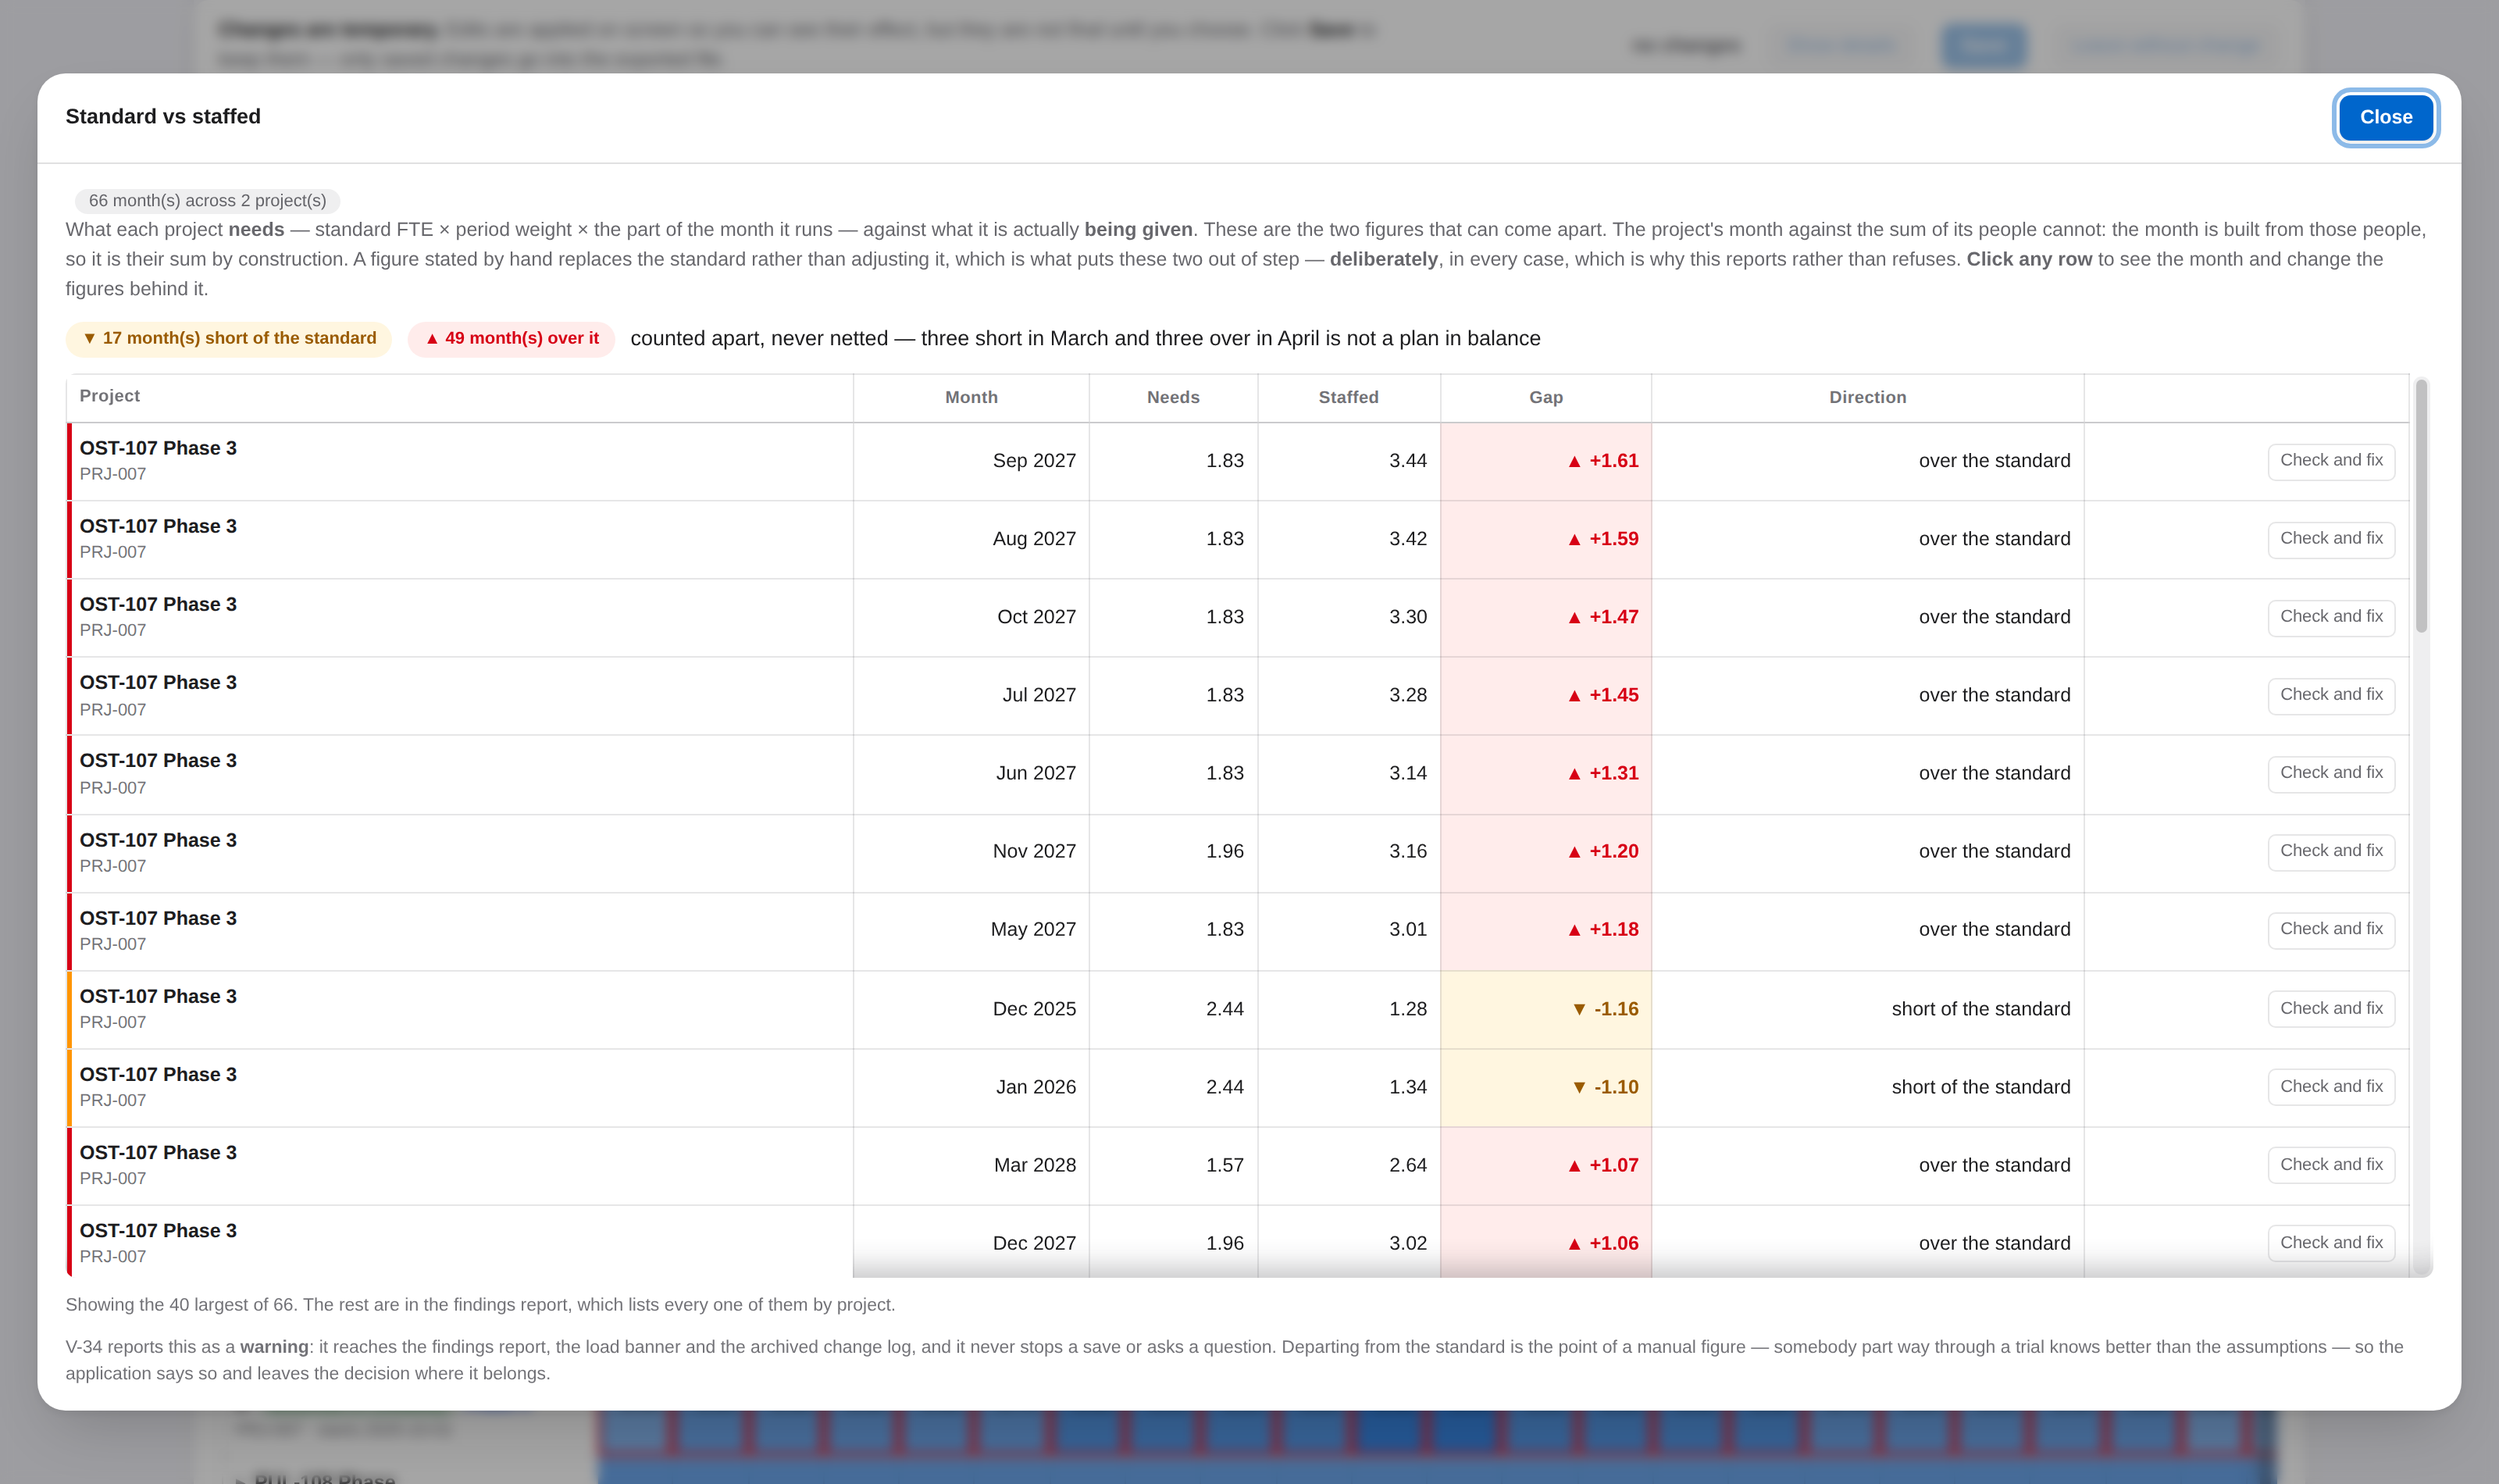
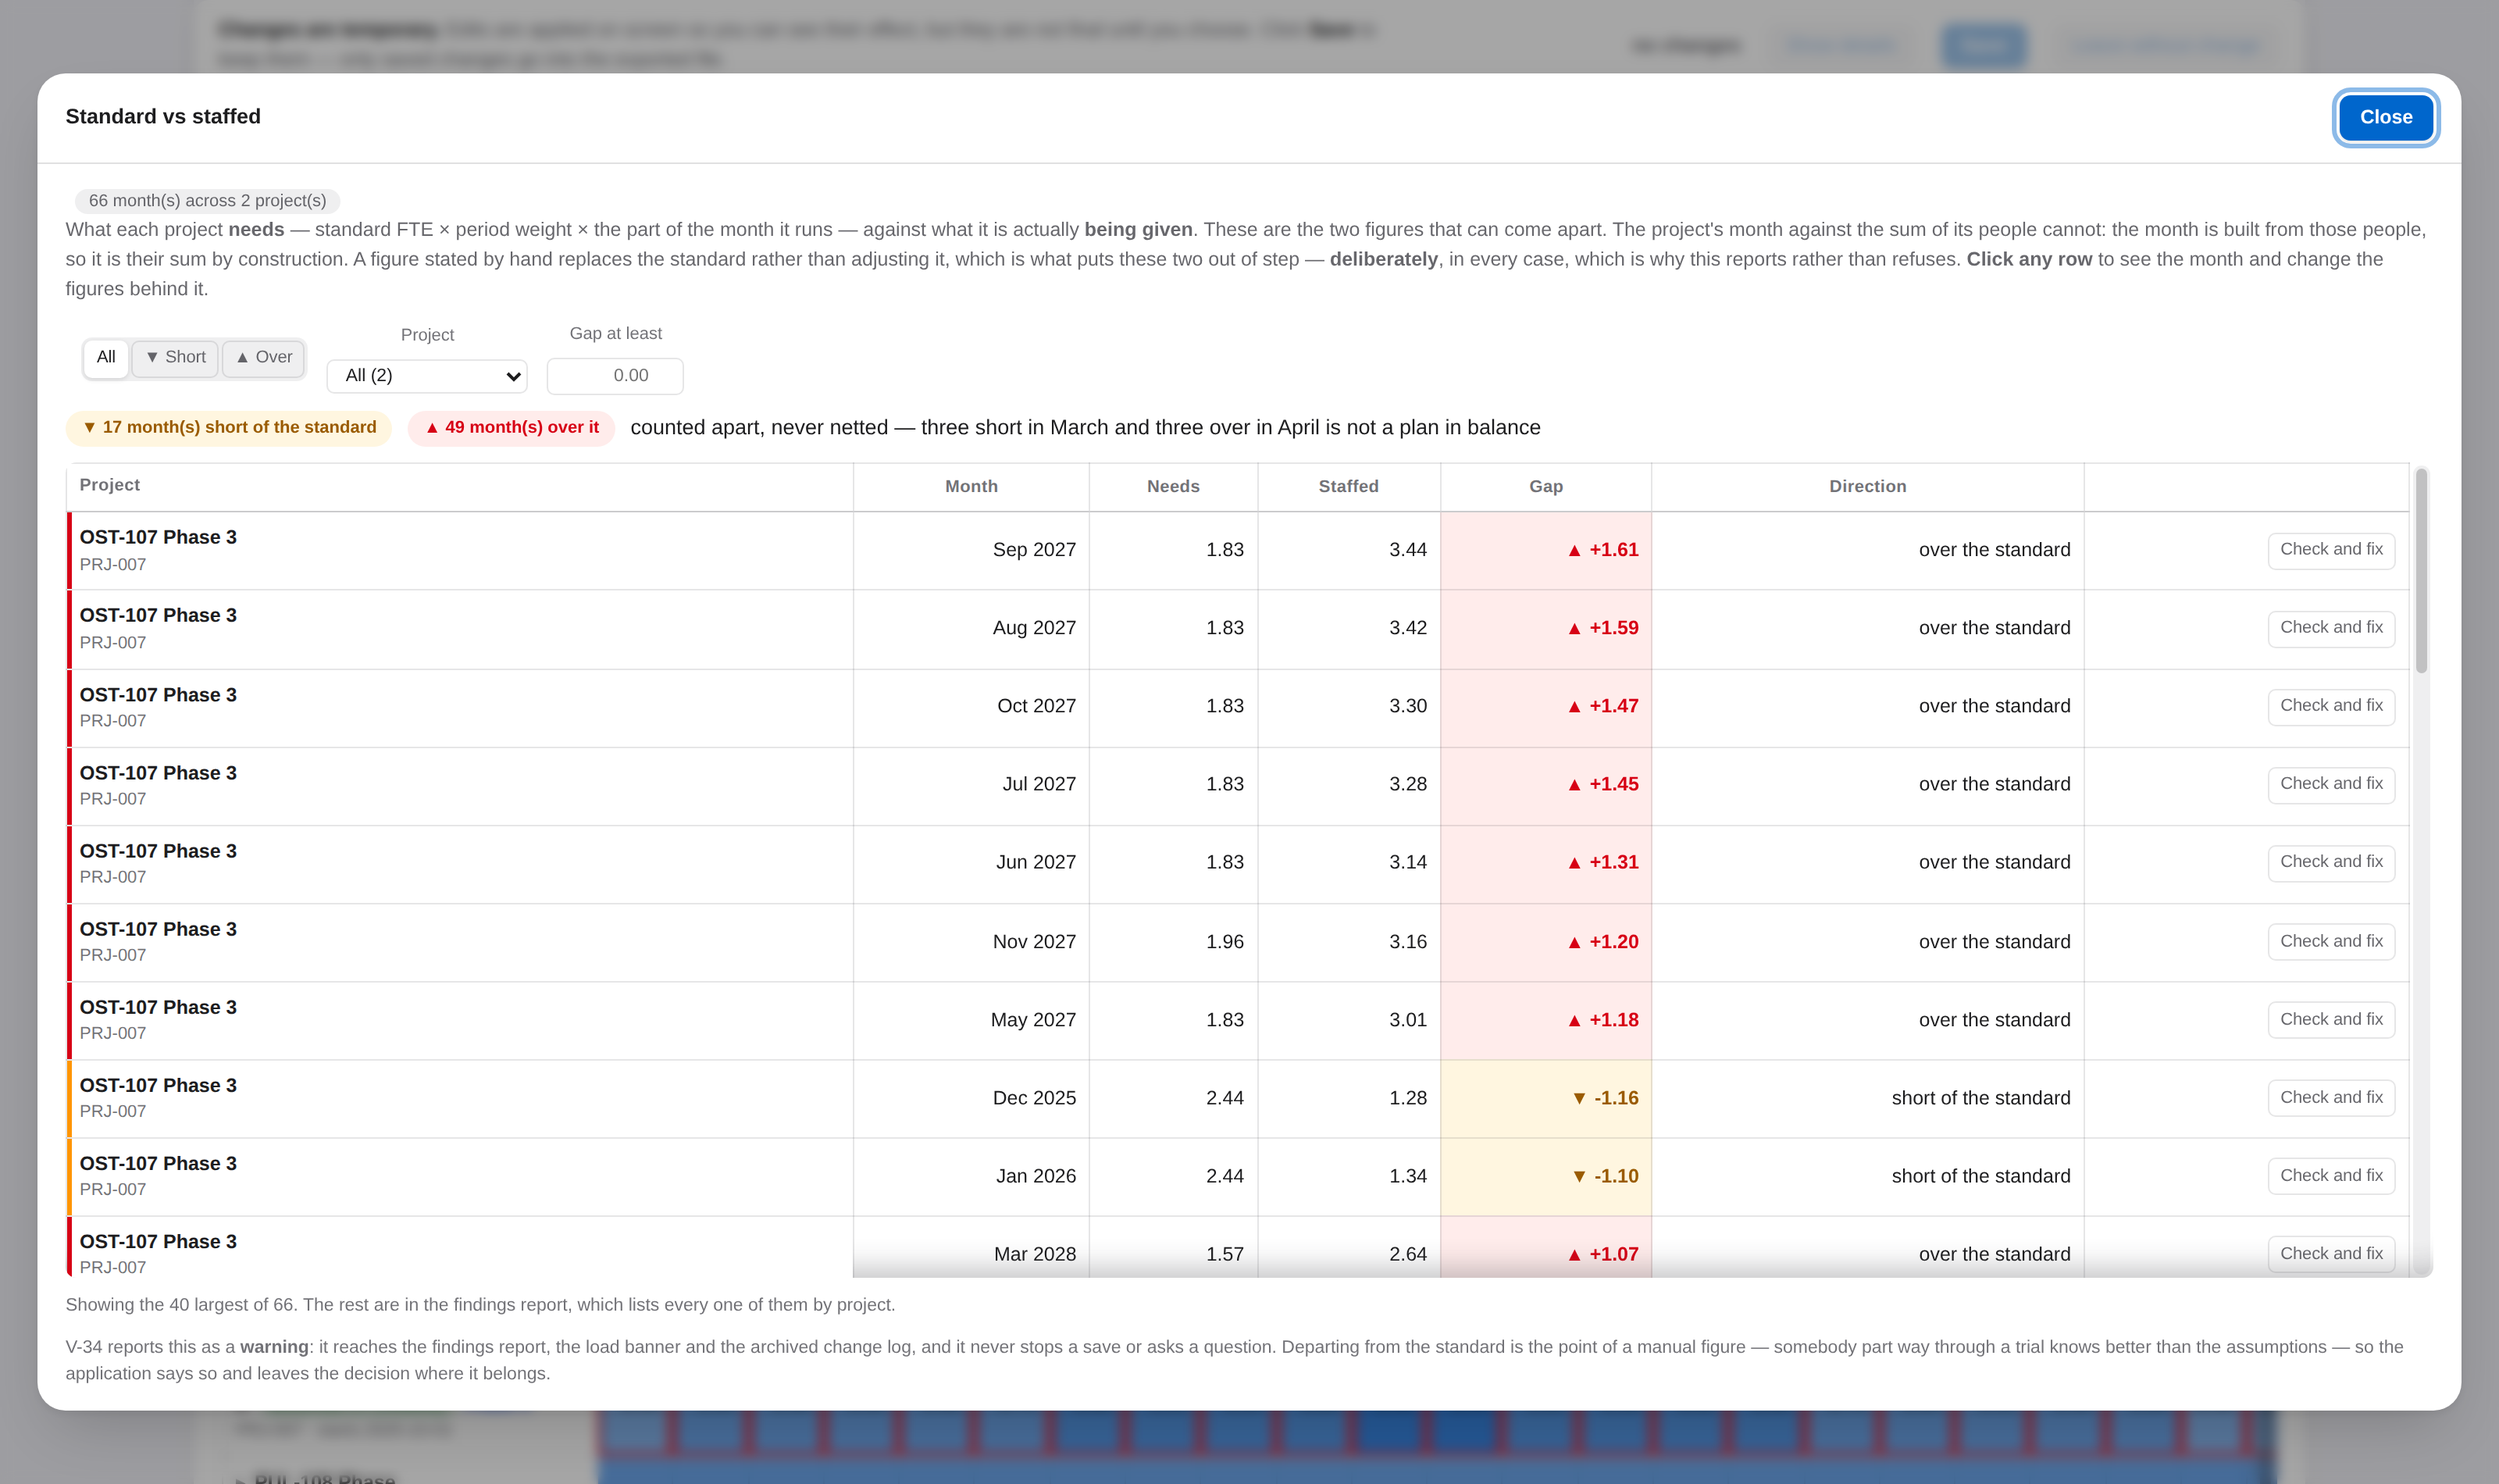
R-53 의 두 기능을 다시 만들 수 있는 그림으로 남긴다
tools/shots_pinned.py 새로, tools/shots_gap.py 에 한 장 추가. 시험이 아니라
증거다 — test_pinned.py 와 test_gap.py 가 수치를 검사한다.

고정 열의 논거는 그림 두 장이고 그 외에는 없다. 같은 표를 같은 자리까지 스크롤한
채로, 고정을 켜고 끈 것. 끈 쪽에는 'by SB / by CRO / Rave / Medidata CDS / 7 /
Active' 가 여덟 줄 늘어서 있고 어느 것도 누구의 것인지 알 수 없다. 그것이 요청의
내용이었다. 끄는 방법은 stylesheet 가 매달린 속성 하나를 지우는 것이라, 두 그림
사이에 그 밖의 무엇도 달라지지 않는다.

필터 쪽은 한 장이면 된다 — 'Short' 로 좁힌 목록이 '17 of 66' 이라고 읽는 동안,
그 뒤에 보이는 판 머리의 단추는 여전히 66 을 말한다. 둘이 한 화면에 들어오도록
일부러 전체를 찍었다. 좁히는 것이 경보를 건드리지 않는다는 규칙이 그림 한 장으로
읽힌다.

표·화면 관련 시험 14종 전부 통과 (gap, pinned, zoom, colfilter, entry, scroll,
screen, app, ui, labels, charts, rows, newrow, filters). 43종 전체는 돌리는
중이다 — 이번 변경이 모든 입력 표를 그리는 dataTable 과 document 단위 click·
change·input 핸들러를 건드리므로, 일부만 보고 끝낼 범위가 아니다.

Claude-Session: https://claude.ai/code/session_01XSm1KSGtymAaRV3ZhUyDkk

diff --git a/tools/shots_pinned.py b/tools/shots_pinned.py
@@ -1,0 +1,62 @@
+"""Capture what REQ-DSH-19 is for, into output/.
+
+Not a test - tools/test_pinned.py does that. The argument for freezing two columns is a
+pair of pictures and nothing else: the same table, scrolled to the same place, with and
+without them. Without, the rows on the right belong to nobody.
+
+    python tools/shots_pinned.py
+
+Output: output/pin_<n>_<what>.png
+"""
+
+import pathlib
+
+from playwright.sync_api import sync_playwright
+
+ROOT = pathlib.Path(__file__).resolve().parents[1]
+APP = (ROOT / "app" / "PRAP.html").as_uri()
+BIG = ROOT / "templates" / "PRAP_SourceData_Dummy_v1.19.xlsx"
+CHROME = "/opt/pw-browsers/chromium-1194/chrome-linux/chrome"
+OUT = ROOT / "output"
+OUT.mkdir(exist_ok=True)
+
+PANEL = '#t-proj .panel[data-panel="projects"]'
+SCROLLED = 1400          # far enough out that no unpinned column names the row
+
+
+def shot(pg, name):
+    pg.mouse.move(2, 2)                      # no pop-up over the picture
+    pg.wait_for_timeout(300)
+    pg.locator(PANEL).screenshot(path=str(OUT / name))
+    print(f"  {name}")
+
+
+with sync_playwright() as pw:
+    browser = pw.chromium.launch(executable_path=CHROME)
+    pg = browser.new_page(viewport={"width": 1600, "height": 950}, device_scale_factor=2)
+    pg.goto(APP)
+    pg.wait_for_timeout(250)
+    pg.set_input_files("#picker", str(BIG))
+    pg.wait_for_function("() => !document.getElementById('tabs').hidden", timeout=120000)
+    pg.wait_for_timeout(2500)
+    pg.click('nav button[data-tab="t-proj"]')
+    pg.wait_for_timeout(1500)
+
+    print("output/ —")
+    shot(pg, "pin_1_at_rest.png")
+
+    pg.evaluate("""x => { document.querySelector("#t-proj .data-t[data-sheet='Project']")
+      .closest('.scrollx').scrollLeft = x; }""", SCROLLED)
+    pg.wait_for_timeout(500)
+    shot(pg, "pin_2_scrolled.png")
+
+    # THE SAME VIEW WITH THE FREEZING TURNED OFF, which is what it looked like before and
+    # is the whole of the argument. Done by dropping the attribute the stylesheet hangs on,
+    # so nothing else about the page changes between the two pictures.
+    pg.evaluate("""() => { const t = document.querySelector(
+      "#t-proj .data-t[data-sheet='Project']");
+      t.dataset.pinWas = t.dataset.pin; delete t.dataset.pin; }""")
+    pg.wait_for_timeout(400)
+    shot(pg, "pin_3_scrolled_without.png")
+
+    browser.close()

diff --git a/tools/shots_gap.py b/tools/shots_gap.py
@@ -54,7 +54,16 @@ with sync_playwright() as pw:
     pg.wait_for_timeout(800)
     shot(pg, None, "gap_2_list.png")
 
-    # 3. AND A MONTH ON TOP OF IT, not instead of it: Escape comes back to the list,
+    # 3. NARROWED (R-53). The reading under the controls is a consequence of what is set
+    #    in them - "17 of 66" - while the control in the panel head behind goes on saying
+    #    66, because that one is the alarm. Both are in this picture on purpose.
+    pg.evaluate("""() => document.querySelector('[data-gapdir="short"]').click()""")
+    pg.wait_for_timeout(700)
+    shot(pg, None, "gap_4_narrowed.png")
+    pg.evaluate("""() => document.querySelector('[data-gapclear]').click()""")
+    pg.wait_for_timeout(600)
+
+    # 4. AND A MONTH ON TOP OF IT, not instead of it: Escape comes back to the list,
     #    which is where the next month somebody wants to look at is.
     pg.evaluate("() => document.querySelector('#gapsBody tr.gaprow').click()")
     pg.wait_for_timeout(900)
